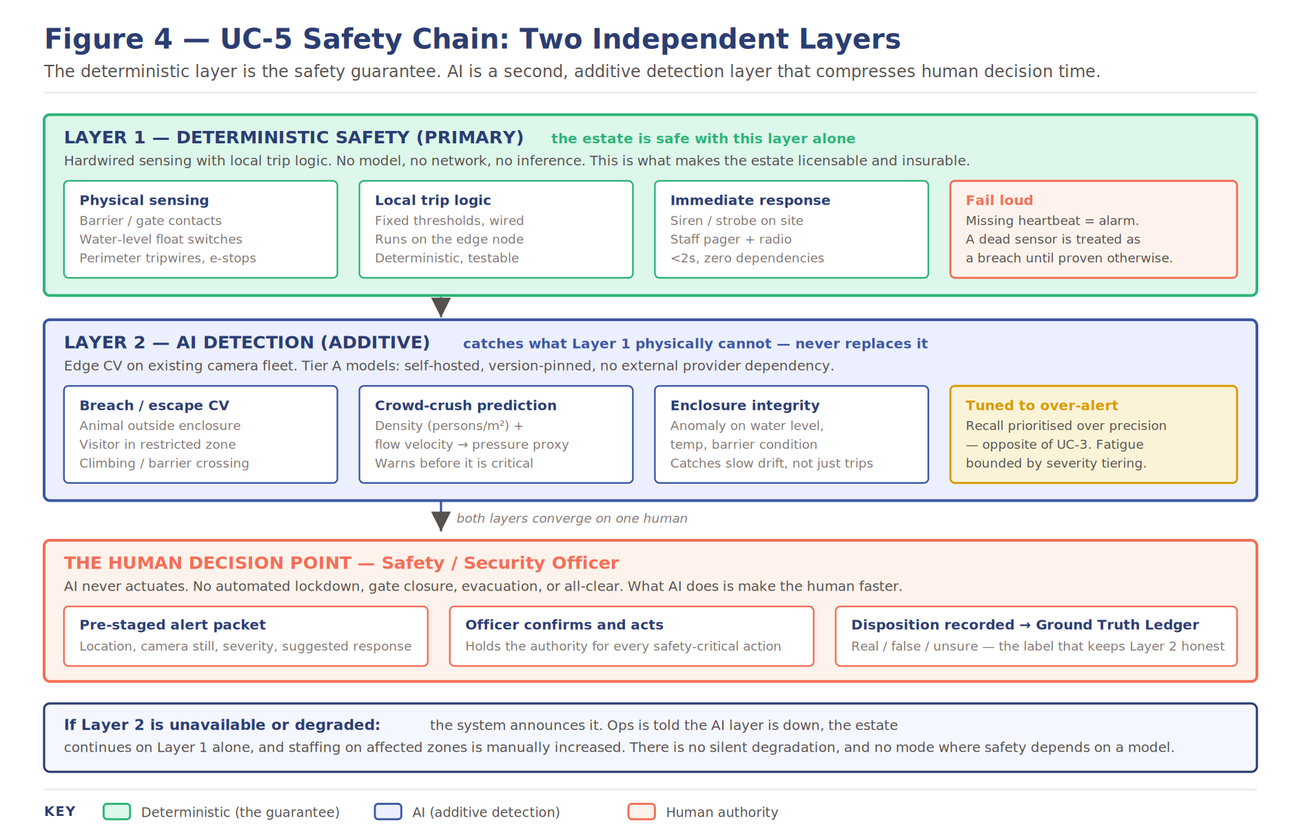
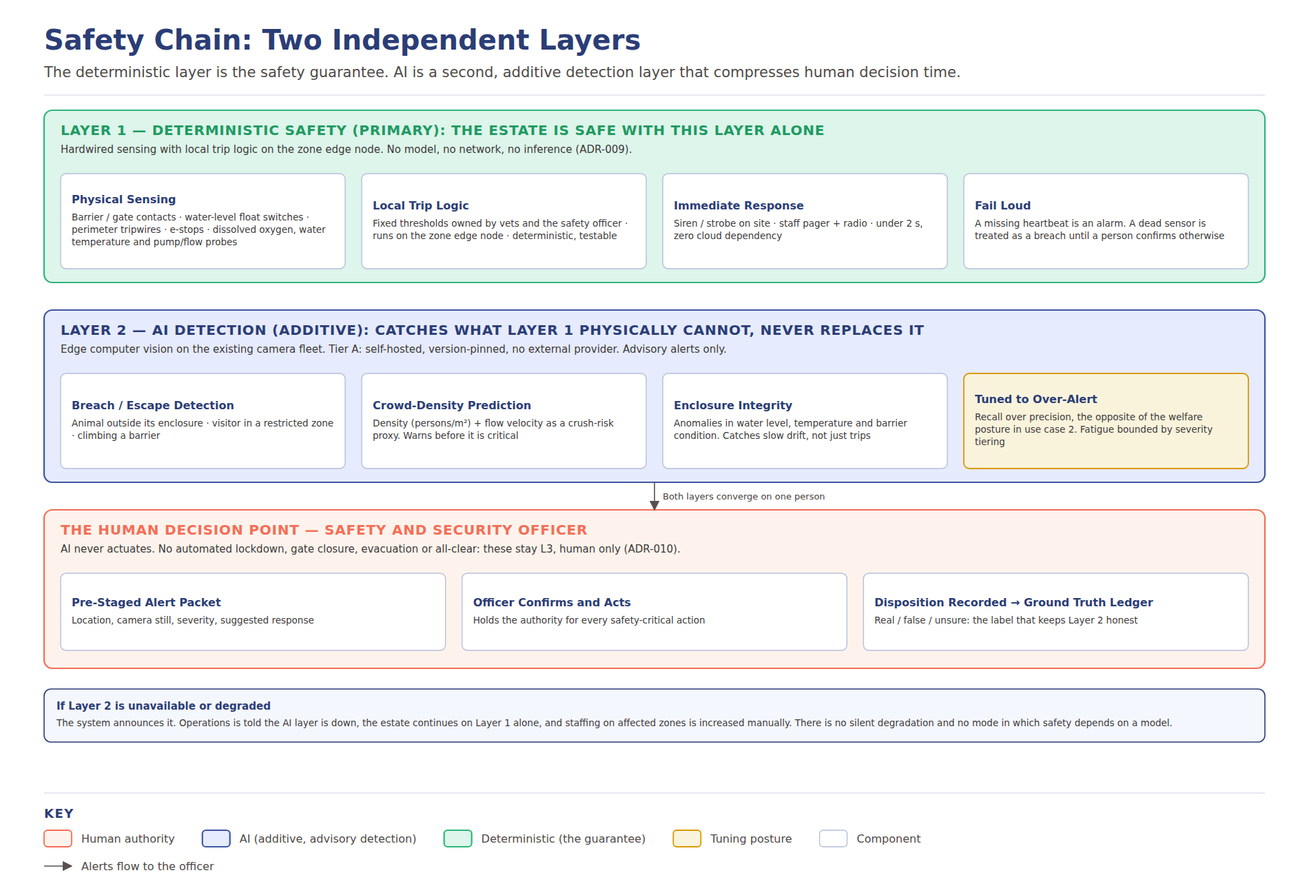
docs: align figures, README and fitness docs with ADRs; renumber diagram index; describe dashboard screenshots

Changed region(s): [[0.0312, 0.0312, 0.9688, 1.0]]

diff --git a/README.md b/README.md
@@ -353,6 +353,12 @@ We chose a **service-based architecture for the core, with event-driven integrat
 - **Why not microservices.** It scores lowest on cost and simplicity, and its operational overhead would land on a small team. A service can still be split out later when its quantum's split triggers fire ([ADR-008](ADR/adr-008-ai-quantum-and-gateway.md)).
 - **Why not space-based or service-oriented.** Space-based solves an extreme elasticity problem we do not have, because telemetry scales with zones rather than visitors ([§14](#14-assumptions-and-capacity-planning)). Service-oriented's orchestration-heavy model scores poorly on agility.
 
+### System context (C1)
+
+Who uses the Estate Digital Platform, and which outside systems it depends on: visitors, staff and the Countess on one side; payment, AI providers, notifications, sensors and historical records on the other. Critical alarms are decided on the estate and go straight to sirens and pagers.
+
+![System context (C1)](assets/Ground-Truth-C1.png)
+
 ### Figure 1. Reference architecture
 
 Four tiers. The important property is where decisions are made: the further down the stack a decision sits, the less it can be disrupted. Safety decisions live at the bottom, learning lives at the top.
@@ -393,6 +399,8 @@ Two observations worth calling out.
 The **Estate quantum** is deliberately the largest. Plants, rides, staffing and animals share synchronous dependencies through zones and rosters, and separating them would have created chatty cross-quantum calls for no benefit. It carries the heaviest characteristic load in the system because it is where welfare, safety and operations meet.
 
 **AI is its own quantum**: the AI Gateway, the AI evaluators and the model lifecycle together ([ADR-008](ADR/adr-008-ai-quantum-and-gateway.md)). Its characteristics are completely different from everything around it, accuracy and explainability and observability rather than availability and recoverability, and it changes on a completely different cadence because the model landscape moves faster than the estate does. Isolating it is what makes the provider-swap story in section 11 credible rather than aspirational. We start with one AI quantum because the team is small. ADR-008 records when a capability or the gateway should split out. Approved edge models are released by this quantum but run on the zone edge nodes, so they keep working offline.
+
+**Feedback** spans three of these units ([ADR-006](ADR/adr-006-ai-feedback-evaluation-and-reporting.md)). Collection (the app, kiosks and the on-estate PII sanitizer) is a feedback-owned module that stays outside the AI quantum; evaluation runs in the AI quantum; and reporting sits in the Notification quantum, alongside the Report Service.
 
 ## 6. Fitness functions
 
@@ -465,7 +473,7 @@ This keeps payment data separated from the rest of the estate platform and ensur
 
 The Ticket Service is also responsible for maintaining the ticket lifecycle, while booking administrators can check the validity of an existing pass before admitting a visitor. The event model explicitly includes **Check pass validity → Pass validated → Ticket**.
 
-**Gate entry and wristband issuance.** At the estate entrance, the visitor presents the ticket or QR code to the **Gate Validator**. The validator checks the ticket/pass against the ticket and visit information and determines whether the visitor should be admitted.
+**Gate entry and wristband issuance.** At the estate entrance, the visitor presents the ticket or QR code to the **Gate Validator**. The validator checks the ticket/pass against local validation data on the gate network (a manifest of valid tickets, family-pass counts and revocations synced from the Ticket Service) and determines whether the visitor should be admitted. A local **admission coordinator** holds the shared admission log, so gates agree on what has already been used, and issues **capacity leases**: each gate admits only against a time-boxed share of the 7,500 safety ceiling ([ADR-005](ADR/adr-005-deployment-topology.md), [ADR-007](ADR/adr-007-ticketing-system.md)).
 
 Once the ticket or family pass is successfully validated and the visitor is admitted, **each visitor is provided with a wristband**. The wristband is associated with the visitor's validated ticket/pass and represents the access entitlement applicable to that visitor.
 
@@ -485,7 +493,9 @@ This prevents a visitor from using a valid estate ticket to access areas that we
 
 The event-storming model captures this as **Enter the estate → Visitor entered → Visit**.
 
-The Visit Service also provides the state required during pass validation so that ticket validity and previous entry/check-in information can be considered when processing an entry.
+Check-in events from the gates reach the Visit Service asynchronously, synced when connected, so the Visit Service holds the record of entries while the coordinator's admission log decides single use at the gate.
+
+**Walk-up sales.** Visitors without a ticket buy at a staffed counter. Counter sales are cash only; card store-and-forward is deferred ([ADR-005](ADR/adr-005-deployment-topology.md)). Each ticket is issued with a stable ID, registered with the admission coordinator, and synced to the Ticket Service as a distinct origin when connected ([ADR-004](ADR/adr-004-record-durability-and-sync.md)).
 
 **Booking administration and refunds.** Ticket collectors and booking administrators can create or cancel tickets and bulk bookings, validate passes, admit or deny visitors, and issue refunds. These responsibilities are explicitly identified for the actor in the architecture's actor model.
 
@@ -495,7 +505,7 @@ Refunds are handled through the Payment Service and the external payment process
 
 For ticket validation, the architecture uses cryptographically verifiable entitlement information so that the gate can validate the ticket without requiring a live network request. The gate can therefore continue validating tickets during temporary connectivity loss.
 
-Local visit/redemption information can subsequently be reconciled when connectivity is restored. This supports the architecture's broader offline-tolerance requirement, which explicitly requires ticketing and counting to continue when a zone node loses its uplink.
+Local visit/redemption information can subsequently be reconciled when connectivity is restored. This supports the architecture's broader offline-tolerance requirement, which explicitly requires admission and counting to continue when the estate loses its uplink.
 
 **Risks we are managing.** The main risks in this flow are payment/PII exposure, invalid or duplicate entry, incorrect entitlement validation and service/network unavailability.
 
@@ -538,6 +548,8 @@ A background AI task can suggest structured fields from the evidence. The keeper
 
 #### Monitoring aquatic and enclosure conditions
 
+![Animal sensing stack](assets/Animal-sensing-stack.png)
+
 Proposed aquatic measurements include water temperature, pH and dissolved oxygen. Terrestrial enclosure measurements include temperature and humidity. Keepers and vets select the measurements, thresholds and maintenance requirements appropriate to each enclosure. These readings describe environmental conditions, not an individual animal's diagnosis.
 
 Small sensor readings use LoRaWAN or an IP connection. The LoRaWAN path includes a radio gateway and network/application processing before decoded readings reach the estate MQTT broker. The broker buffers accepted records and forwards them to cloud ingestion. Device storage and replay must also cover a lost connection before the broker. MQTT alone does not guarantee end-to-end durability.
@@ -548,9 +560,9 @@ Staff and authorized administrators retrieve concerns through the application. T
 
 #### The jumping piranha problem
 
-A camera observes the tank at scheduled intervals. A fish-counting model runs on a capable camera or nearby processor. Images are processed locally; only estimated counts and metadata pass through the estate MQTT broker to the cloud. Camera links use Ethernet or suitable Wi-Fi, not LoRaWAN. Tank video is not streamed to the cloud.
+A camera observes the tank at scheduled intervals. A fish-counting model runs on the zone edge node, released and version-pinned through the AI quantum's model lifecycle ([ADR-008](ADR/adr-008-ai-quantum-and-gateway.md)). Images are processed locally; only estimated counts and metadata pass through the estate MQTT broker to the cloud. Camera links use Ethernet or suitable Wi-Fi, not LoRaWAN. Tank video is not streamed to the cloud.
 
-Each count record includes its stable ID, tank/camera identity, observation time, model version and view-quality status. The camera or processor buffers records while disconnected. The Animal application displays these estimates alongside keeper-recorded counts and observations.
+Each count record includes its stable ID, tank/camera identity, observation time, model version and view-quality status. The edge node buffers records while disconnected. The Animal application displays these estimates alongside keeper-recorded counts and observations.
 
 The result initially represents fish visible in an observation, not a guaranteed census of the entire tank. Keepers check the estimates against reference observations using a consistent view and sampling method. Counts from successive frames or overlapping cameras are not added together, and unusable views are not recorded as zero fish. Unexpected changes prompt review; keeper corrections remain separate from the original model estimate.
 
@@ -575,7 +587,8 @@ AI assists with extraction, summaries and the camera-counting pilot. General beh
 #### ADRs
 
 - [record durability ADR-004](ADR/adr-004-record-durability-and-sync.md)
-- [deployment ADR-005](ADR/adr-005-deployment-topology.md).
+- [deployment ADR-005](ADR/adr-005-deployment-topology.md)
+- [critical alarms at the edge ADR-009](ADR/adr-009-critical-alarms-at-the-edge.md)
 
 #### Plants
 
@@ -595,7 +608,7 @@ The most valuable observational instrument on the estate is an experienced keepe
 
 **Scope.** Visitor tracking, finding the popularity, working out which parts of the estate people actually spend time in, popularity matrix dashboard, forecast matrix dashboard.
 
-**Sensing occupancy without surveilling anyone.** Zone occupancy and dwell time are derived from footfall counts at zone boundaries, aggregated per zone per batch window. Edge Gateways buffer readings locally through Wi-Fi outages and flush them on reconnect. Ingestion writes are idempotent, keyed by (device_id, zone_id, window), so retries and buffer replays during an outage can never inflate a count. Where a boundary is too open to instrument, edge computer vision produces a headcount from a frame and discards the frame. We do not identify, track or re-identify individuals, and we deploy no facial recognition anywhere on the estate.
+**Sensing occupancy without surveilling anyone.** Zone occupancy and dwell time are derived from footfall counts at zone boundaries, aggregated per zone per batch window. The estate MQTT broker buffers readings locally through Wi-Fi outages and flushes them on reconnect ([ADR-005](ADR/adr-005-deployment-topology.md)). Ingestion writes are idempotent, keyed by (device_id, zone_id, window), so retries and buffer replays during an outage can never inflate a count. Where a boundary is too open to instrument, edge computer vision produces a headcount from a frame and discards the frame. We do not identify, track or re-identify individuals, and we deploy no facial recognition anywhere on the estate.
 
 **A rule-based score, plus deliberately modest predictions.**
 
@@ -638,7 +651,7 @@ Short-horizon wait-time prediction: from current queue occupancy and recent thro
 
 **Assessment Pipeline.** Raw text flows through an asynchronous, multi-stage pipeline designed to extract meaning without relying on live synchronous AI calls. First, language detection identifies the input language to route it to the appropriate NLP model. Next, sentiment and theme extraction classifies the emotion, such as frustration or delight, along with the operational category, like cleanliness, queue length, or safety. Each item carries two zone fields: where it was submitted, and the zone it is about (confirmed by the visitor, since a complaint at the aquarium exit may be about an earlier ride). Finally, the structured item is routed to the relevant zone manager or veterinary staff. Urgent safety or welfare reports do not wait for this pipeline: keyword rules and a visitor "this is urgent" option send them straight to zone staff at collection time.
 
-**Guardrails and Degradation.** Because this system handles unstructured human input, it requires a strict defensive architecture. As a Tier C capability, all personally identifiable information (PII) is deterministically stripped at the edge before any model call is made, ensuring no free text is ever sent to an external provider without redaction. Furthermore, because the feedback evaluator is not operationally critical, it is designed for graceful degradation. If the external AI provider experiences an outage, raw feedback is simply buffered locally on the edge nodes or in the message broker. This ensures collection continues seamlessly, and processing resumes once the provider is restored.
+**Guardrails and Degradation.** Because this system handles unstructured human input, it requires a strict defensive architecture. As a Tier C capability, all personally identifiable information (PII) is deterministically stripped at the edge before any model call is made, ensuring no free text is ever sent to an external provider without redaction. Furthermore, because the feedback evaluator is not operationally critical, it is designed for graceful degradation. If the external AI provider experiences an outage, sanitized feedback is simply buffered locally on the edge nodes or in the message broker; raw feedback is never stored before PII is stripped. This ensures collection continues seamlessly, and processing resumes once the provider is restored.
 
 **The Steward Integration & The Visitor Loop.** When the AI Evaluator identifies a recurring theme—such as the glass on the jumping piranha tank being too dirty to see through—it automatically generates an advisory on The Steward dashboard. The Countess or the relevant Zone Manager can then review the supporting evidence and approve a maintenance ticket. Once the work is completed, the system supports a "You Spoke, We Acted" feedback loop, allowing the estate to email the complaining visitors to demonstrate that their input directly improved the estate.
 
@@ -691,7 +704,7 @@ Safety originates inside the sensor data use case, but we have pulled it into it
 
 ### Layer 1: deterministic, and sufficient on its own
 
-Hardwired sensing with fixed local trip logic. Barrier and gate contacts, water-level float switches, perimeter tripwires and emergency stops, wired to local siren and pager output on the zone edge node. No model, no network, no inference.
+Hardwired sensing with fixed local trip logic. Barrier and gate contacts, water-level float switches, perimeter tripwires and emergency stops, plus critical life-support probes (dissolved oxygen, water temperature, pump and flow), wired to local siren and pager output on the zone edge node. No model, no network, no inference ([ADR-009](ADR/adr-009-critical-alarms-at-the-edge.md)).
 
 We designed this layer first and deliberately made it sufficient, so that every AI claim we make afterwards is additive rather than load-bearing. We do not claim this alone makes the estate licensable or insurable; [ADR-009](ADR/adr-009-critical-alarms-at-the-edge.md) sets out the assurance plan (hazard scenarios, threshold ownership, proof tests, acceptance before a zone opens).
 
@@ -823,7 +836,7 @@ The brief raises this twice, so we treated it as a first-class architectural req
 |----------|--------------------------------------------------------------|----------------------------------------------------------------------------------|--------------------------------------------------------------|
 | A        | Safety camera detection, piranha counting (edge vision)      | Self-hosted, version-pinned, open weights. No external provider, ever            | No impact. We were never exposed                             |
 | B        | Forecasting and anomaly detection, recommender               | Self-hosted, but a deterministic or historical fallback is mandatory             | Falls back to rules or history, swap within a day, no outage |
-| C        | Feedback assessment, visitor assistant, operations summaries | Provider acceptable, graceful degradation required                               | Feature degrades or pauses. Nothing critical is lost         |
+| C        | Feedback assessment, keeper-note extraction and evidence summaries, visitor assistant, operations summaries | Provider acceptable; a second provider and graceful degradation required | Feature degrades or pauses. Nothing critical is lost         |
 
 The load-bearing point is that nothing which keeps a person or an animal safe depends on a commercial API. That is a deliberate architectural constraint rather than a preference, and it is what allows us to adopt fast-moving models elsewhere without taking on existential risk.
 
@@ -873,7 +886,7 @@ Three of our capabilities therefore generate continuous free labels with no labe
 2.  **A CI eval gate.** Any model, prompt or threshold change must clear thresholds or the build fails
 3.  **Shadow and canary release.** The candidate runs in parallel with no user impact, then canaries with automatic rollback on regression
 4.  **Production monitors** for input and output drift, confidence collapse, silent-failure self-checks and cost per decision
-5.  **Human disposition capture.** Every alert is closed with a verdict of real, false or unsure. This is the label source, and it costs a keeper seconds per alert
+5.  **Human disposition capture.** Every alert a person handles is closed with a verdict of real, false or unsure, and automatic (L0/L1) outcomes are sampled for review ([ADR-010](ADR/adr-010-ai-authority-by-risk.md)). This is the label source, and it costs a keeper seconds per alert
 
 | Capability            | Ground truth source                         | Posture                                                                    | Misbehaviour signal in production                                      |
 |---------------------------|-------------------------------------------------|--------------------------------------------------------------------------------|----------------------------------------------------------------------------|
@@ -1042,7 +1055,7 @@ All ADRs live in [ADR/](ADR/) and follow the standard format: title, status, con
 | [adr-001-popularity-scoring-approach](ADR/adr-001-popularity-scoring-approach.md)               | Popularity & trend scoring approach: hybrid rule-based baseline with a phased ML forecast/anomaly layer                                                                                                                                                                                                                                                                                                                                                                                   | Accepted   |
 | [adr-002-idempotent-footfall-reconciliation](ADR/adr-002-idempotent-footfall-reconciliation.md) | Idempotent reconciliation strategy for zone footfall counts                                                                                                                                                                                                                                                                                                                                                                                                                               | Accepted   |
 | [adr-003-model-monitoring-and-drift](ADR/adr-003-model-monitoring-and-drift.md)                 | Model monitoring and drift handling for popularity forecasting                                                                                                                                                                                                                                                                                                                                                                                                                            | Accepted   |
-| [adr-004-record-durability-and-sync](ADR/adr-004-record-durability-and-sync.md)                 | Record Durability and Syncing for monitoring enclosure conditions                                                                                                                                                                                                                                                                                                                                                                                                                            | Accepted   |
+| [adr-004-record-durability-and-sync](ADR/adr-004-record-durability-and-sync.md)                 | Every record is saved at its origin before it is confirmed, then synced idempotently when connected: keeper notes, sensor readings, counts, admissions and gate-issued tickets                                                                                                                                                                                                                                                                                                                                                                                                                            | Accepted   |
 | [adr-005-deployment-topology](ADR/adr-005-deployment-topology.md) | Cloud-primary deployment; admission, critical alarms (ADR-009), telemetry buffering and approved edge AI run on the estate; placement rule device / estate edge / cloud | Accepted (amended) |
 | [AI Feedback Evaluation And Reporting](ADR/adr-006-ai-feedback-evaluation-and-reporting.md) | Asynchronous feedback pipeline: edge collection with PII stripping, AI evaluation through the AI Gateway (in the AI quantum, ADR-008), deterministic reporting that never calls a model, and a separate urgent-safety path | Accepted (amended) |
 | [adr-007-ticketing-system](ADR/adr-007-ticketing-system.md) | Four core services with clear aggregate ownership: User, Ticket, Payment and Visit. Gate Validator enforces validity, area entitlement and redemption, supports offline entry, and stays within the safe capacity ceiling through capacity leases | Accepted (amended) |
@@ -1052,25 +1065,29 @@ All ADRs live in [ADR/](ADR/) and follow the standard format: title, status, con
 
 ## Diagram index
 
+In reading order: context and platform (§1–§4), then each use case (§7), safety (§8), AI (§11), profitability (§13) and the working artifacts (§2).
+
 | S. No. | Diagram                                 | Type                     | Location                                |
 |------------|---------------------------------------------|------------------------------|---------------------------------------------|
-| 1          | Estate reference architecture               | Layered container view       | assets/reference-architecture.png           |
-| 2          | Platform topology                           | Context and topology         | assets/platform-topology-diagram.png        |
-| 3          | Offline-first data spine and priority lanes | Data flow                    | assets/offline-data-spine.png               |
-| 4          | Safety chain, two independent layers        | Flow and decision            | assets/safety-chain.png                     |
-| 5          | AI Gateway and Ground Truth Ledger          | Component with feedback loop | assets/ai-gateway-ground-truth-ledger.png   |
-| 6          | Profit lever tree                           | Business model               | assets/Profit-lever-tree.png                |
-| 7          | Animal Monitoring C2                        | Architecture                 | assets/Animal_Monitoring_C2.png             |
-| 8          | Feedback Evaluation Reporting               | Architecture                 | assets/Feedback_Evaluation_Reporting_C2.png |
-| 9         | Zone Popularity                             | Architecture                 | assets/Zone_Popularity_C2.png               |
-| 10         | Ticketing                                   | Architecture                 | assets/Ticketing_C2.png                     |
-| 11         | Ticketing flow                              | Flow                         | flow-diagrams/Ticketing_flow.png            |
-| 12         | Care taker observation flow                 | Flow                         | flow-diagrams/Care_Taker_Observation_flow.png |
-| 13         | Animal alert review and summary             | Flow                         | flow-diagrams/Animal_Alert_Review_and_Summary.png |
-| 14         | Zone popularity flow                        | Flow                         | flow-diagrams/Zone_Popularity_Flow.png      |
-| 15         | Feedback evaluation and reporting flow      | Flow                         | flow-diagrams/Feedback_Evaluation_Reporting_Flow.png |
-| 16         | Architecture characteristics worksheet      | Worksheet                    | other-artifacts/Architecture Characteristics Worksheet.png |
-| 17         | Architecture styles worksheet               | Worksheet                    | other-artifacts/Architecture Sytles Worksheet.png |
+| 1          | System context (C1)                         | Context                      | assets/Ground-Truth-C1.png                  |
+| 2          | Estate reference architecture               | Layered container view       | assets/reference-architecture.png           |
+| 3          | Platform topology                           | Context and topology         | assets/platform-topology-diagram.png        |
+| 4          | Offline-first data spine and priority lanes | Data flow                    | assets/offline-data-spine.png               |
+| 5          | Ticketing                                   | Architecture                 | assets/Ticketing_C2.png                     |
+| 6          | Ticketing flow                              | Flow                         | flow-diagrams/Ticketing_flow.png            |
+| 7          | Animal sensing stack                        | Component                    | assets/Animal-sensing-stack.png             |
+| 8          | Animal Monitoring C2                        | Architecture                 | assets/Animal_Monitoring_C2.png             |
+| 9          | Care taker observation flow                 | Flow                         | flow-diagrams/Care_Taker_Observation_flow.png |
+| 10         | Animal alert review and summary             | Flow                         | flow-diagrams/Animal_Alert_Review_and_Summary.png |
+| 11         | Zone Popularity                             | Architecture                 | assets/Zone_Popularity_C2.png               |
+| 12         | Zone popularity flow                        | Flow                         | flow-diagrams/Zone_Popularity_Flow.png      |
+| 13         | Feedback Evaluation Reporting               | Architecture                 | assets/Feedback_Evaluation_Reporting_C2.png |
+| 14         | Feedback evaluation and reporting flow      | Flow                         | flow-diagrams/Feedback_Evaluation_Reporting_Flow.png |
+| 15         | Safety chain, two independent layers        | Flow and decision            | assets/safety-chain.png                     |
+| 16         | AI Gateway and Ground Truth Ledger          | Component with feedback loop | assets/ai-gateway-ground-truth-ledger.png   |
+| 17         | Profit lever tree                           | Business model               | assets/Profit-lever-tree.png                |
+| 18         | Architecture characteristics worksheet      | Worksheet                    | other-artifacts/Architecture Characteristics Worksheet.png |
+| 19         | Architecture styles worksheet               | Worksheet                    | other-artifacts/Architecture Sytles Worksheet.png |
 
 ## Actors
 
@@ -1091,7 +1108,8 @@ Identified through the actor-action and event storming exercise in section 2.
 | Evals                              | Evaluates AI outputs and identifies corrections. Deliberately modelled as its own actor                                                         |
 | Platform administrator             | Administers the shared platform and operationally owns the AI Gateway and evaluation layer                                                      |
 | MQTT edge sensor and camera        | Captures video, foot traffic and environmental signals                                                                                          |
-| Edge AI gateway                    | Validates tickets offline, runs local inference, queues data, runs safety-critical inference locally                                            |
+| Zone edge node                     | Runs deterministic critical-alarm rules, the estate MQTT broker and approved advisory edge inference (counting, Layer 2 camera alerts). No model is ever in the critical-alarm path |
+| Admission coordinator and gate scanners | Validate tickets offline from local validation data on the gate network, hold the shared admission log and enforce capacity leases |
 | Cloud AI and analytics engine      | Ingests estate data, trains models, hosts the AI abstraction and evaluation layer                                                               |
 | AI model provider, external        | Interchangeable providers, deliberately treated as replaceable                                                                                  |
 | Payment processor                  | Handles card transactions. Segregated from any generative AI path                                                                               |

diff --git a/prototype/screens/README.md b/prototype/screens/README.md
@@ -1,0 +1,18 @@
+# The Steward — dashboard screenshots
+
+Static screenshots of every screen in [the interactive prototype](../the-steward-dashboard.html), for readers who would rather not open it. Each screen is described in README §10.
+
+| # | Screen | What it shows |
+|---|---|---|
+| 01 | [Today](01-today.png) | Money first, the queue of decisions waiting on you, and what the system was worth this week |
+| 02 | [Visitors](02-visitors.png) | Gate arrivals against forecast and popular spots ranked by dwell time |
+| 03 | [Collections](03-collections.png) | Welfare board per enclosure: sensor readings and keeper observations side by side |
+| 04 | [Recommendations](04-recommendations.png) | Each AI suggestion with its confidence, a "why is this being suggested" expander and a yes/no disposition for the Ground Truth Ledger |
+| 05 | [Money by zone](05-money-by-zone.png) | Revenue less allocated cost per zone |
+| 06 | [Adventure Park](06-park.png) | Rides operating, predicted waits for the next 30 minutes, and rides needing a decision |
+| 07 | [System health](07-health.png) | Silent sensors as faults, live model scoring, supplier exposure by tier |
+| 08 | [Animal detail](08-animal-detail.png) | One animal's intake against its own baseline, history and the welfare gate |
+| 09 | [Tank detail](09-tank-detail.png) | The jumping piranha colony: a deterministic life-support alarm from the edge node, the count as a range, and oxygen history |
+| 10 | [Operations role](10-role-operations.png) | The dashboard as seen by Operations |
+| 11 | [Keeper role](11-role-keeper.png) | The dashboard as seen by a keeper |
+| 12 | [Degraded mode](12-degraded.png) | The "Simulate AI outage" view: degradation announced, never silent |

diff --git a/engineering-practices/architecture-fitness-functions.md b/engineering-practices/architecture-fitness-functions.md
@@ -48,7 +48,7 @@ Fail if p95 latency or cost per visitor exceeds the agreed envelope.
 
 **Target:**
 
-A Tier B/C provider should be replaceable within one working day using configuration changes rather than application rearchitecture.
+A Tier C provider should be replaceable within one working day using configuration changes rather than application rearchitecture.
 
 **Test:**
 
@@ -196,6 +196,8 @@ A failed fitness-function job prevents the pipeline from being considered succes
 ## Current GitHub Actions Workflow
 
 The current workflow runs all seven fitness functions independently. This makes the failure visible at the individual architecture-characteristic level instead of having one combined test hide which requirement failed.
+
+> **Current status.** Today these scripts check supplied or default values; they do not yet measure the running system. Tests that need staging hardware (offline tolerance, safety latency) report as skipped until that hardware exists. A green run below therefore means the checks are wired into CI, not that the targets have been demonstrated. See the status column in README §6.
 
 ```text
 GitHub Actions

diff --git a/ADR/adr-010-ai-authority-by-risk.md b/ADR/adr-010-ai-authority-by-risk.md
@@ -80,3 +80,4 @@ Model confidence is **one input** to "measured performance" (once its calibratio
 ## Changelog
 
 - 7 October 2026: Proposed. Responds to judge feedback on risk-based AI strategy and to the architect's point that low-risk decisions may not need a human in the loop.
+- 8 October 2026: Accepted.

diff --git a/ADR/adr-009-critical-alarms-at-the-edge.md b/ADR/adr-009-critical-alarms-at-the-edge.md
@@ -116,3 +116,4 @@ Evidence status today: **Designed.** Nothing in this ADR has yet been simulated 
 ## Changelog
 
 - 7 October 2026: Proposed. Resolves the conflict between README §7.2, README §8 and ADR-005.
+- 8 October 2026: Accepted.

diff --git a/ADR/adr-008-ai-quantum-and-gateway.md b/ADR/adr-008-ai-quantum-and-gateway.md
@@ -116,3 +116,4 @@ Split a capability (or the gateway) into its own quantum when any of these becom
 ## Changelog
 
 - 7 October 2026: Proposed. Resolves the conflict between README §5 and ADR-006.
+- 8 October 2026: Accepted.
